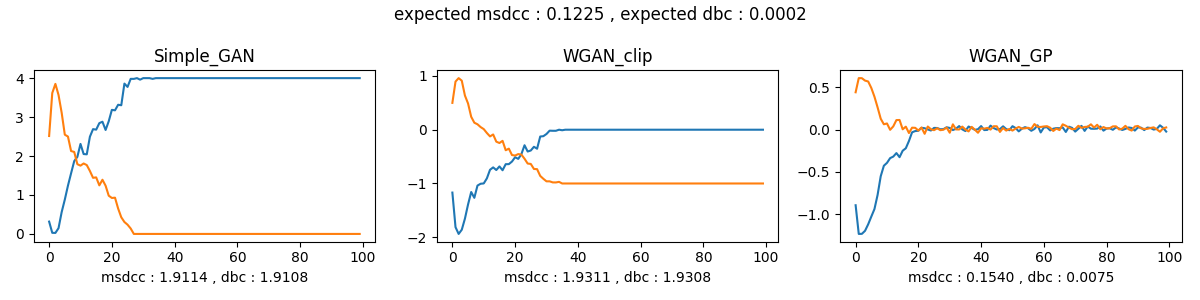
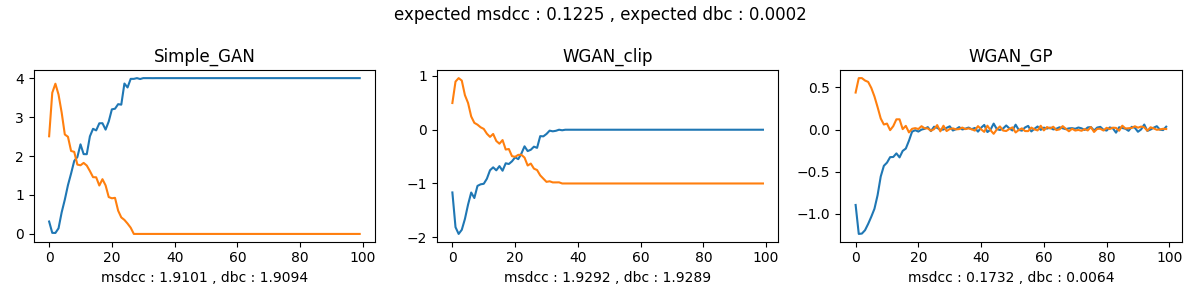
updated

diff --git a/unsupervised_learning/gan/2-wgan_gp.py b/unsupervised_learning/gan/2-wgan_gp.py
@@ -122,10 +122,6 @@ class WGAN_GP(keras.Model):
                         self.discriminator.trainable_variables)
                     )
 
-            # Clip the weights of the discriminator between -1 and 1
-            for var in self.discriminator.trainable_variables:
-                var.assign(tf.clip_by_value(var, -1.0, 1.0))
-
         with tf.GradientTape() as tape:
             fake_samples = self.get_fake_sample(training=True)
             gen_output = self.discriminator(fake_samples, training=False)
